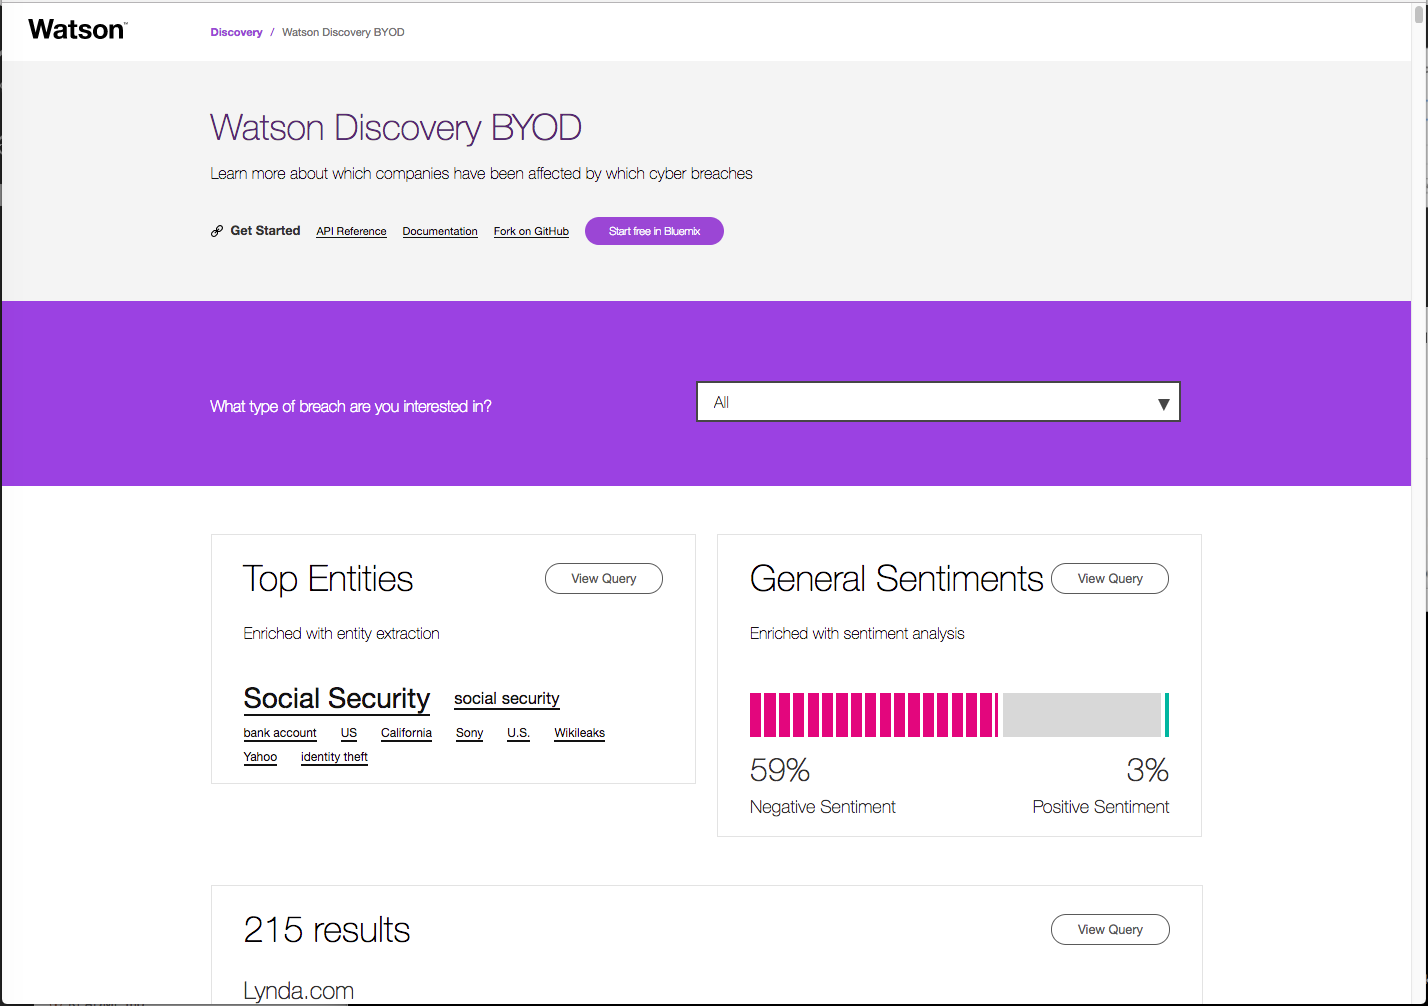
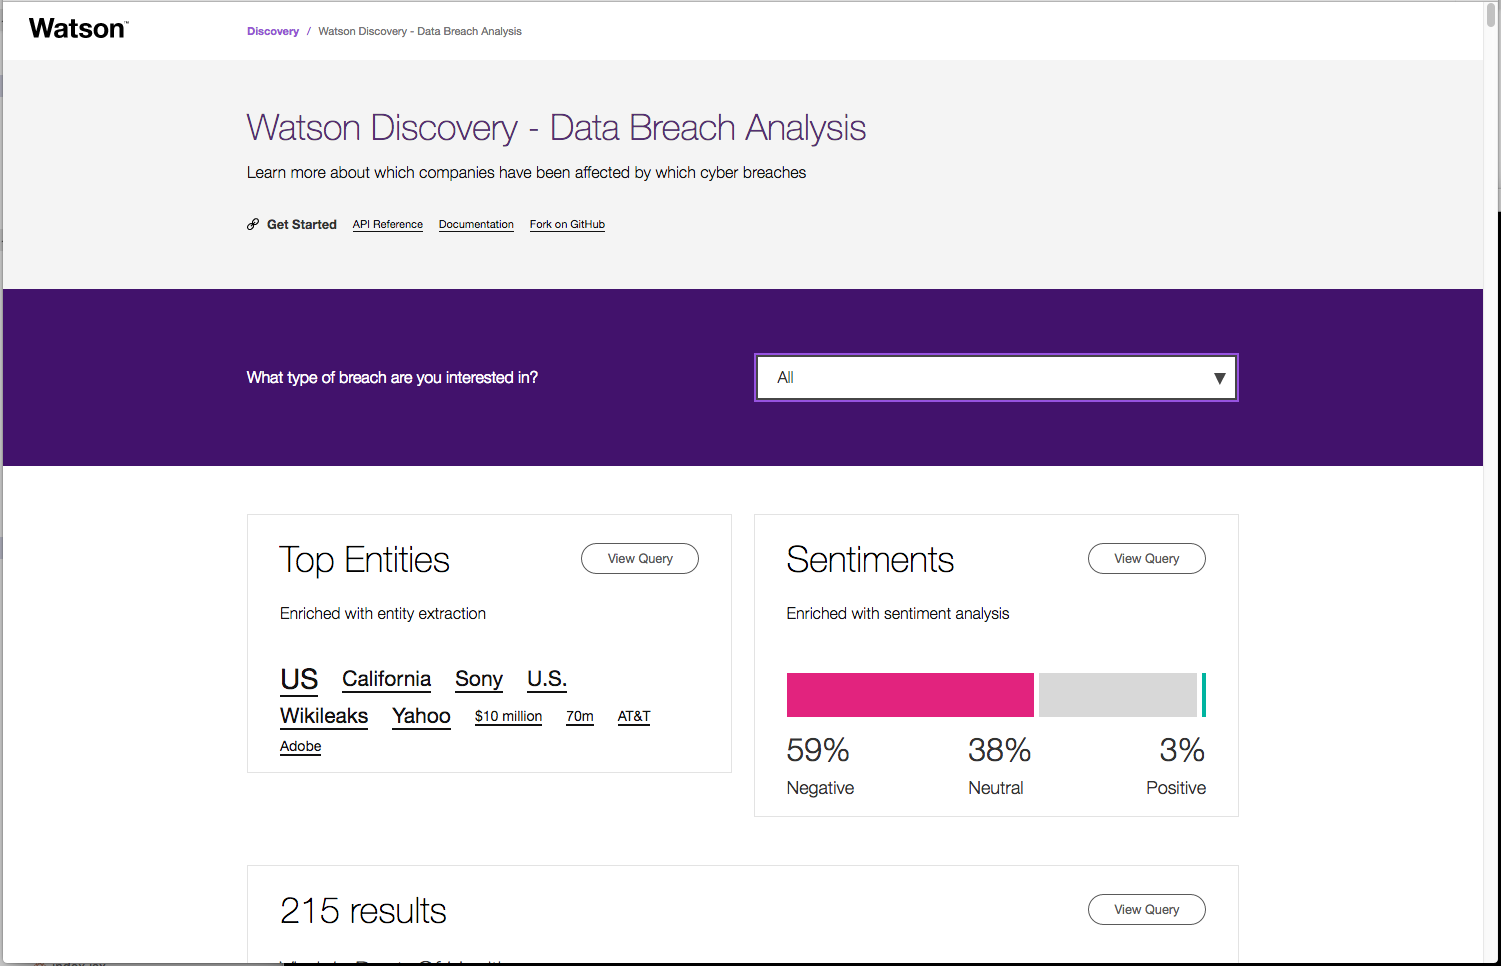
misc UI changes (#41)
* misc UI changes

* misc UI changes

diff --git a/views/GeneralSentiments/SentimentChart.jsx b/views/GeneralSentiments/SentimentChart.jsx
@@ -40,13 +40,17 @@ const SentimentChart = React.createClass({
           <div className="sentiment--labels">
             <div className="sentiment--info sentiment--info_negative">
               <div className="sentiment--score">{`${Math.round(percentages.negative)}%`}</div>
-              <div className="sentiment--label">Negative Sentiment</div>
+              <div className="sentiment--label">Negative</div>
             </div>
-            {/* To make sure positive and negative are spread apart */}
+            {/* To make sure values are spread apart */}
             <div className="sentiment--info sentiment--spacer" />
+            <div className="sentiment--info sentiment--info_neutral">
+              <div className="sentiment--score">{`${Math.round(percentages.neutral)}%`}</div>
+              <div className="sentiment--label">Neutral</div>
+            </div>
             <div className="sentiment--info sentiment--info_positive">
               <div className="sentiment--score">{`${Math.round(percentages.positive)}%`}</div>
-              <div className="sentiment--label">Positive Sentiment</div>
+              <div className="sentiment--label">Positive</div>
             </div>
           </div>
         ) : null}

diff --git a/public/css/style.css b/public/css/style.css
@@ -1059,8 +1059,10 @@ html {
   }
   .query--hack-type-select {
     width: 48.93617%;
-    margin-right: 2.12766%;
+    margin-right: 0px;
+    margin-top: 0px;
     float: left;
+    border: 2px solid #9753e1;
   }
   .query--date-container {
     width: 48.93617%;
@@ -1317,8 +1319,7 @@ html {
 }
 
 .sentiment--bar_negative {
-  background: -webkit-repeating-linear-gradient(left, #e2237e, #e2237e 0.7rem, transparent 0rem, transparent 0.9rem);
-  background: repeating-linear-gradient(90deg, #e2237e, #e2237e 0.7rem, transparent 0rem, transparent 0.9rem);
+  background-color: #e2237e;
 }
 
 .sentiment--bar_hidden {
@@ -1845,17 +1846,20 @@ input:focus, button:focus, textarea:focus {
 
 .query--flex-container {
   display: flex;
-  align-items: flex-end;
+  align-items: center;
 }
 .query--flex-container .query--hack-type-label {
   color: white;
   font-weight: 300;
   width: 50%;
+  margin-right: 2.12766%;
+}
+.query--flex-container .query--hack-type-label label{
+  margin: .25em 0 .25em;
 }
 .query--flex-container .query--hack-type-select {
   width: 50%;
 }
-
 
 .query--date-buttons-disabled {
   opacity: 0.4;

diff --git a/views/GeneralSentiments/index.jsx b/views/GeneralSentiments/index.jsx
@@ -33,7 +33,7 @@ export default React.createClass({
         {!this.state.showQuery ? (
           <div className="sentiment widget">
             <div className="widget--header">
-              <h2 className="base--h2 widget--header-title">General Sentiments</h2>
+              <h2 className="base--h2 widget--header-title">Sentiments</h2>
               <div className="widget--header-spacer" />
               <button
                 className="base--button widget--header-button"

diff --git a/views/layout.jsx b/views/layout.jsx
@@ -3,7 +3,7 @@ import { Header, Jumbotron, Footer } from 'watson-react-components';
 
 // eslint-disable-next-line
 const DESCRIPTION = 'Learn more about which companies have been affected by which cyber breaches';
-const TITLE = 'Watson Discovery - Analyze Data Breaches';
+const TITLE = 'Watson Discovery - Data Breach Analysis';
 
 function Layout(props) {
   return (

diff --git a/query-builder.js b/query-builder.js
@@ -43,6 +43,9 @@ module.exports = {
       params.filter = filters.join(',');
     }
 
+    // show results containing entities first
+    params.sort = 'enriched_text.entities.text';
+
     return params;
   },
 };
